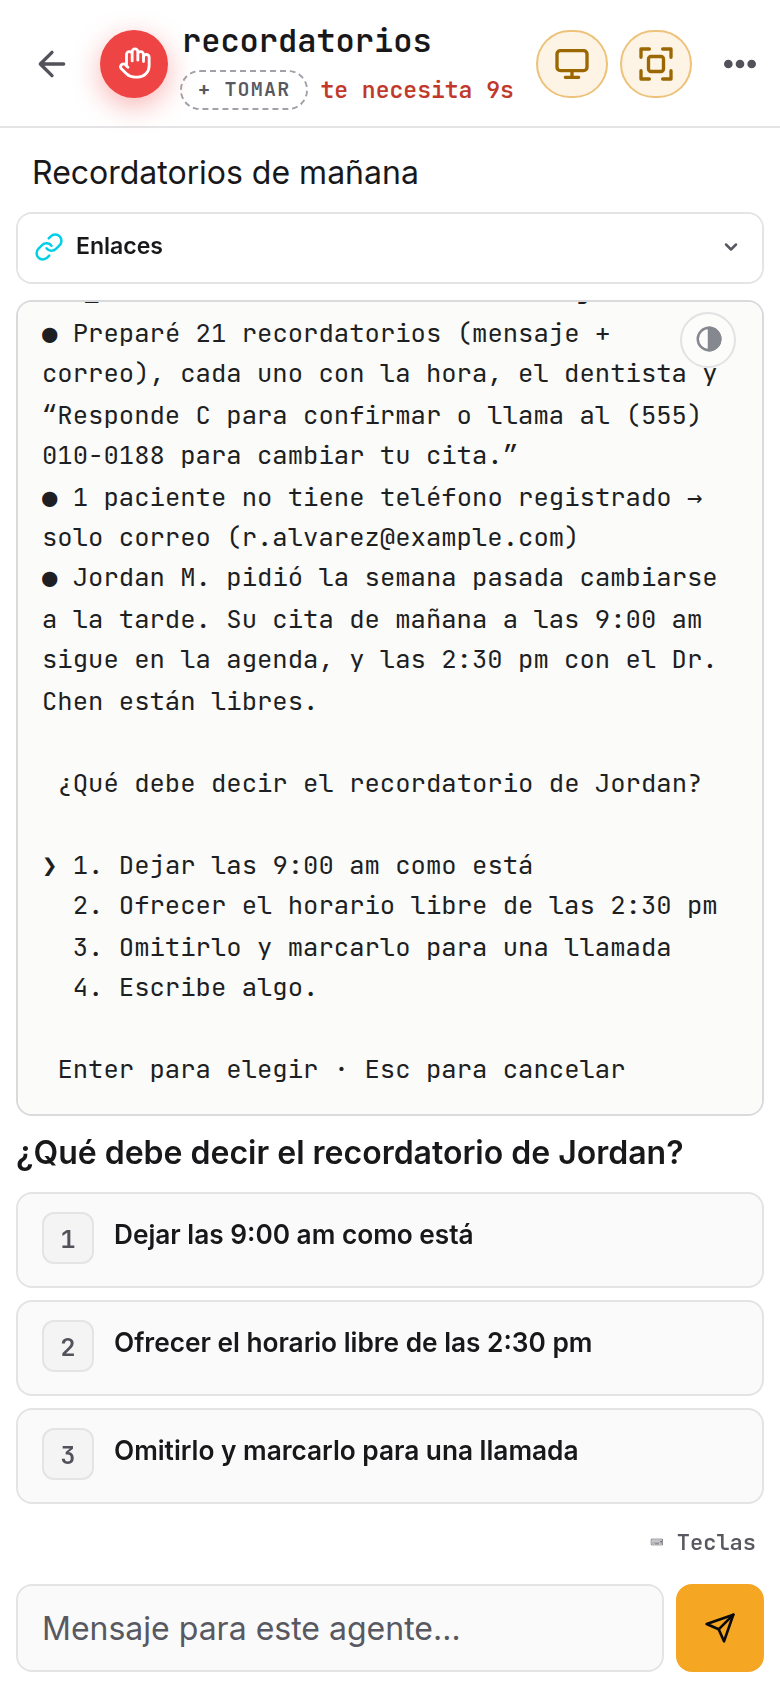
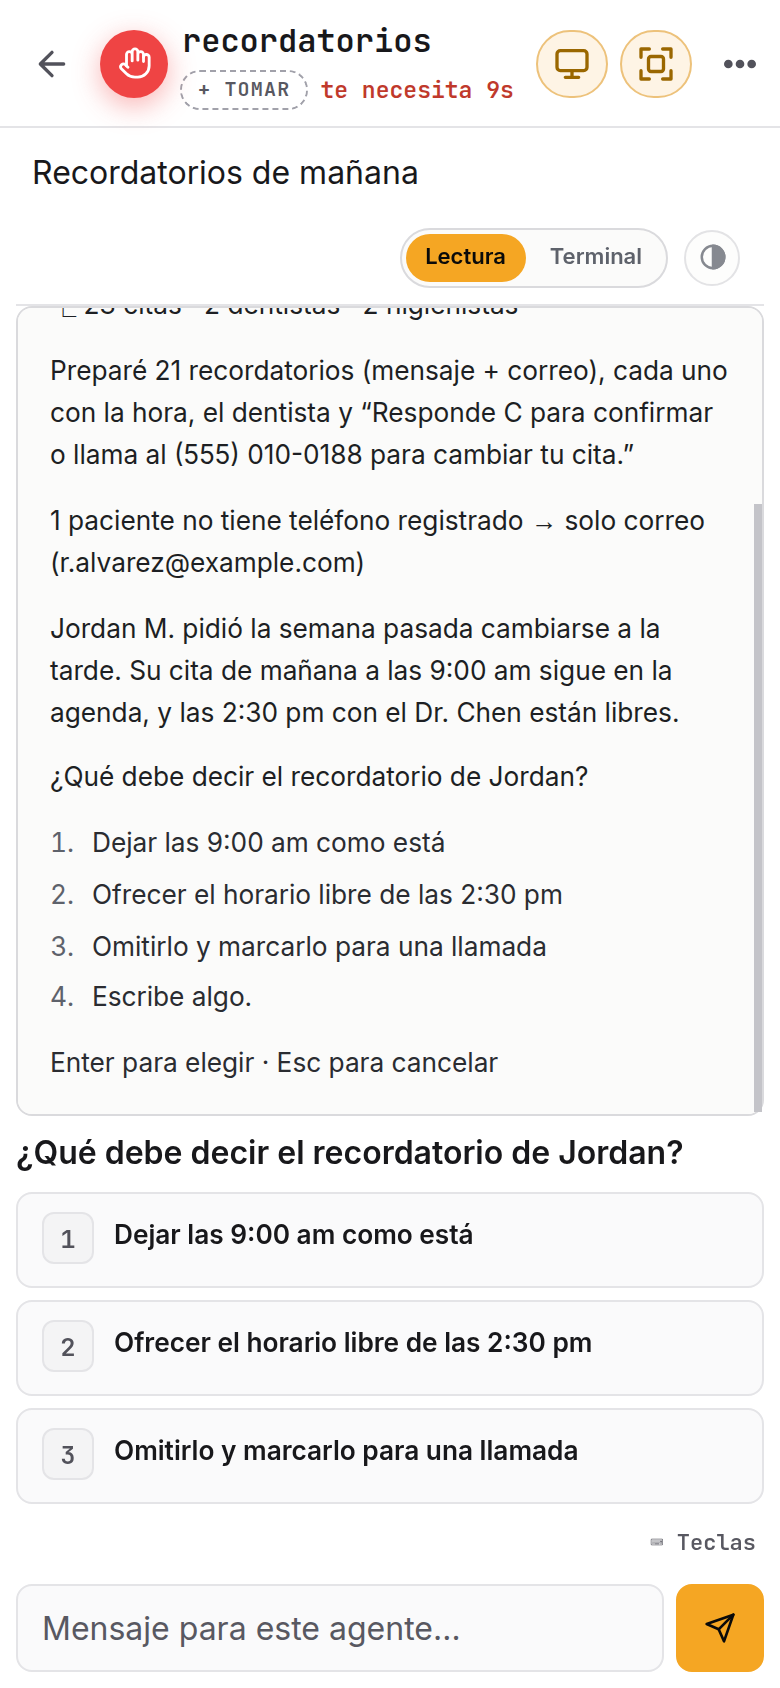
Release 0.1.0 re-cut: changelog folds in Stop, End, Journal and Reader; demo screenshots retaken (EN + ES)

diff --git a/CHANGELOG.md b/CHANGELOG.md
@@ -3,24 +3,6 @@
 All notable changes to ORCA. Versions follow [Semantic Versioning](https://semver.org).
 The installer pins one panel release and one herdr release together; `operio-orca update` moves both.
 
-## [Unreleased]
-
-### Panel
-- **Stop** on a working agent's card interrupts the job with keys that suit the agent (opencode
-  never gets ⌃C, which quits it). **End** shows what would be lost first, saves the agent's last
-  output, asks it to quit with its own command and closes its pane; its links and tags go with it.
-- **Journal** (`/journal.html`, EN/ES): a local, append-only timeline of what you and your agents
-  did, with saved output per finished job, filters, search, Markdown export and a **Daily
-  review** of each finished day. Files in `~/.config/operio-orca/journal/` (0600), secrets
-  redacted before writing, gzip after 7 days, deleted after 90 (`OPERIO_ORCA_JOURNAL_DAYS`).
-  No model or outside service is involved.
-- The card's output is always open, with a **Reader** view (your messages as bubbles, replies
-  as prose, tool work folded) and the raw **Terminal**; the choice is remembered per device.
-  Links and a per-agent History move into the ⋯ panel.
-- Deeper card history: reads up to 1000 lines, keeps what it already showed when herdr answers
-  a short read (and retries it), and holds your scroll position while new lines arrive.
-- Demo: End and Stop work on the scripted agents; an ended agent stays gone until `--reset`.
-
 ## [0.1.0] - 2026-11-09
 
 First public release.
@@ -38,6 +20,20 @@ First public release.
   Morning Front Desk Brief, Review Reply Desk, Weekly Owner Report, Showing Day Pack,
   Post-Visit Thank-You + Review Ask.
 - `operio-orca demo [--lang es]`: two fictional businesses with scripted agents, no API spend.
+- **Stop** on a working agent's card interrupts the job with keys that suit the agent (opencode
+  never gets ⌃C, which quits it). **End** shows what would be lost first, saves the agent's last
+  output, asks it to quit with its own command and closes its pane; its links and tags go with it.
+- **Journal** (`/journal.html`, EN/ES): a local, append-only timeline of what you and your agents
+  did, with saved output per finished job, filters, search, Markdown export and a **Daily
+  review** of each finished day. Files in `~/.config/operio-orca/journal/` (0600), secrets
+  redacted before writing, gzip after 7 days, deleted after 90 (`OPERIO_ORCA_JOURNAL_DAYS`).
+  No model or outside service is involved.
+- The card's output is always open, with a **Reader** view (your messages as bubbles, replies
+  as prose, tool work folded) and the raw **Terminal**; the choice is remembered per device.
+  Links and a per-agent History move into the ⋯ panel.
+- Deeper card history: reads up to 1000 lines, keeps what it already showed when herdr answers
+  a short read (and retries it), and holds your scroll position while new lines arrive.
+- Demo: End and Stop work on the scripted agents; an ended agent stays gone until `--reset`.
 
 ### Installer and CLI
 - `install.sh`: Linux (x86_64, arm64) and macOS, no sudo, no Docker. Downloads herdr 0.9.5 and
